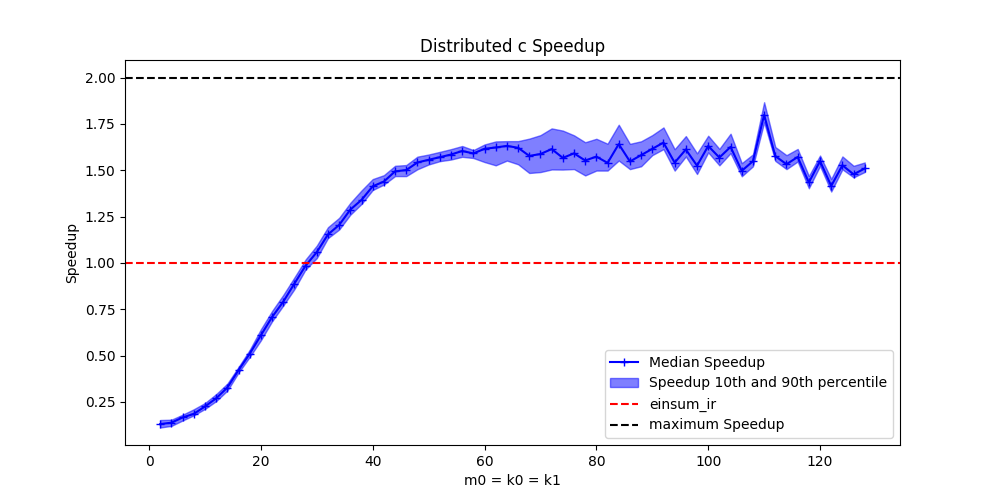
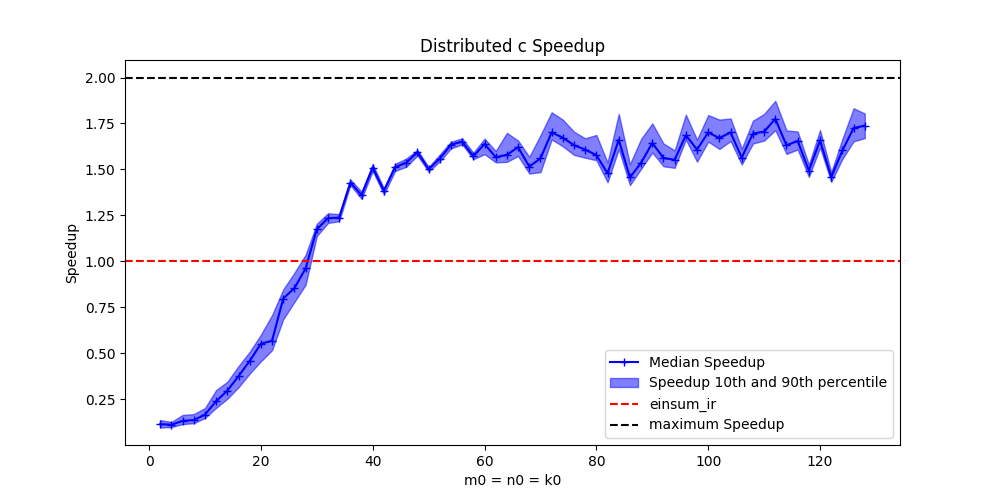
updated c graph

diff --git a/Bachelor Arbeit/data/visualize.py b/Bachelor Arbeit/data/visualize.py
@@ -81,7 +81,7 @@ plt.plot(size_1_arr, speedup_arr, "b-+" ,label="Median Speedup")
 plt.fill_between(size_1_arr, speedup_10_arr, speedup_90_arr, color='b', alpha=0.5, label="Speedup 10th and 90th percentile")
 plt.axhline(y=1, color='red', linestyle='--', label="einsum_ir")
 plt.axhline(y=2, color='black', linestyle='--', label="maximum Speedup")
-plt.xlabel("m0 = k0 = k1")
+plt.xlabel("m0 = n0 = k0")
 plt.ylabel("Speedup")
 plt.legend()
 plt.title(titleSpeedup)
